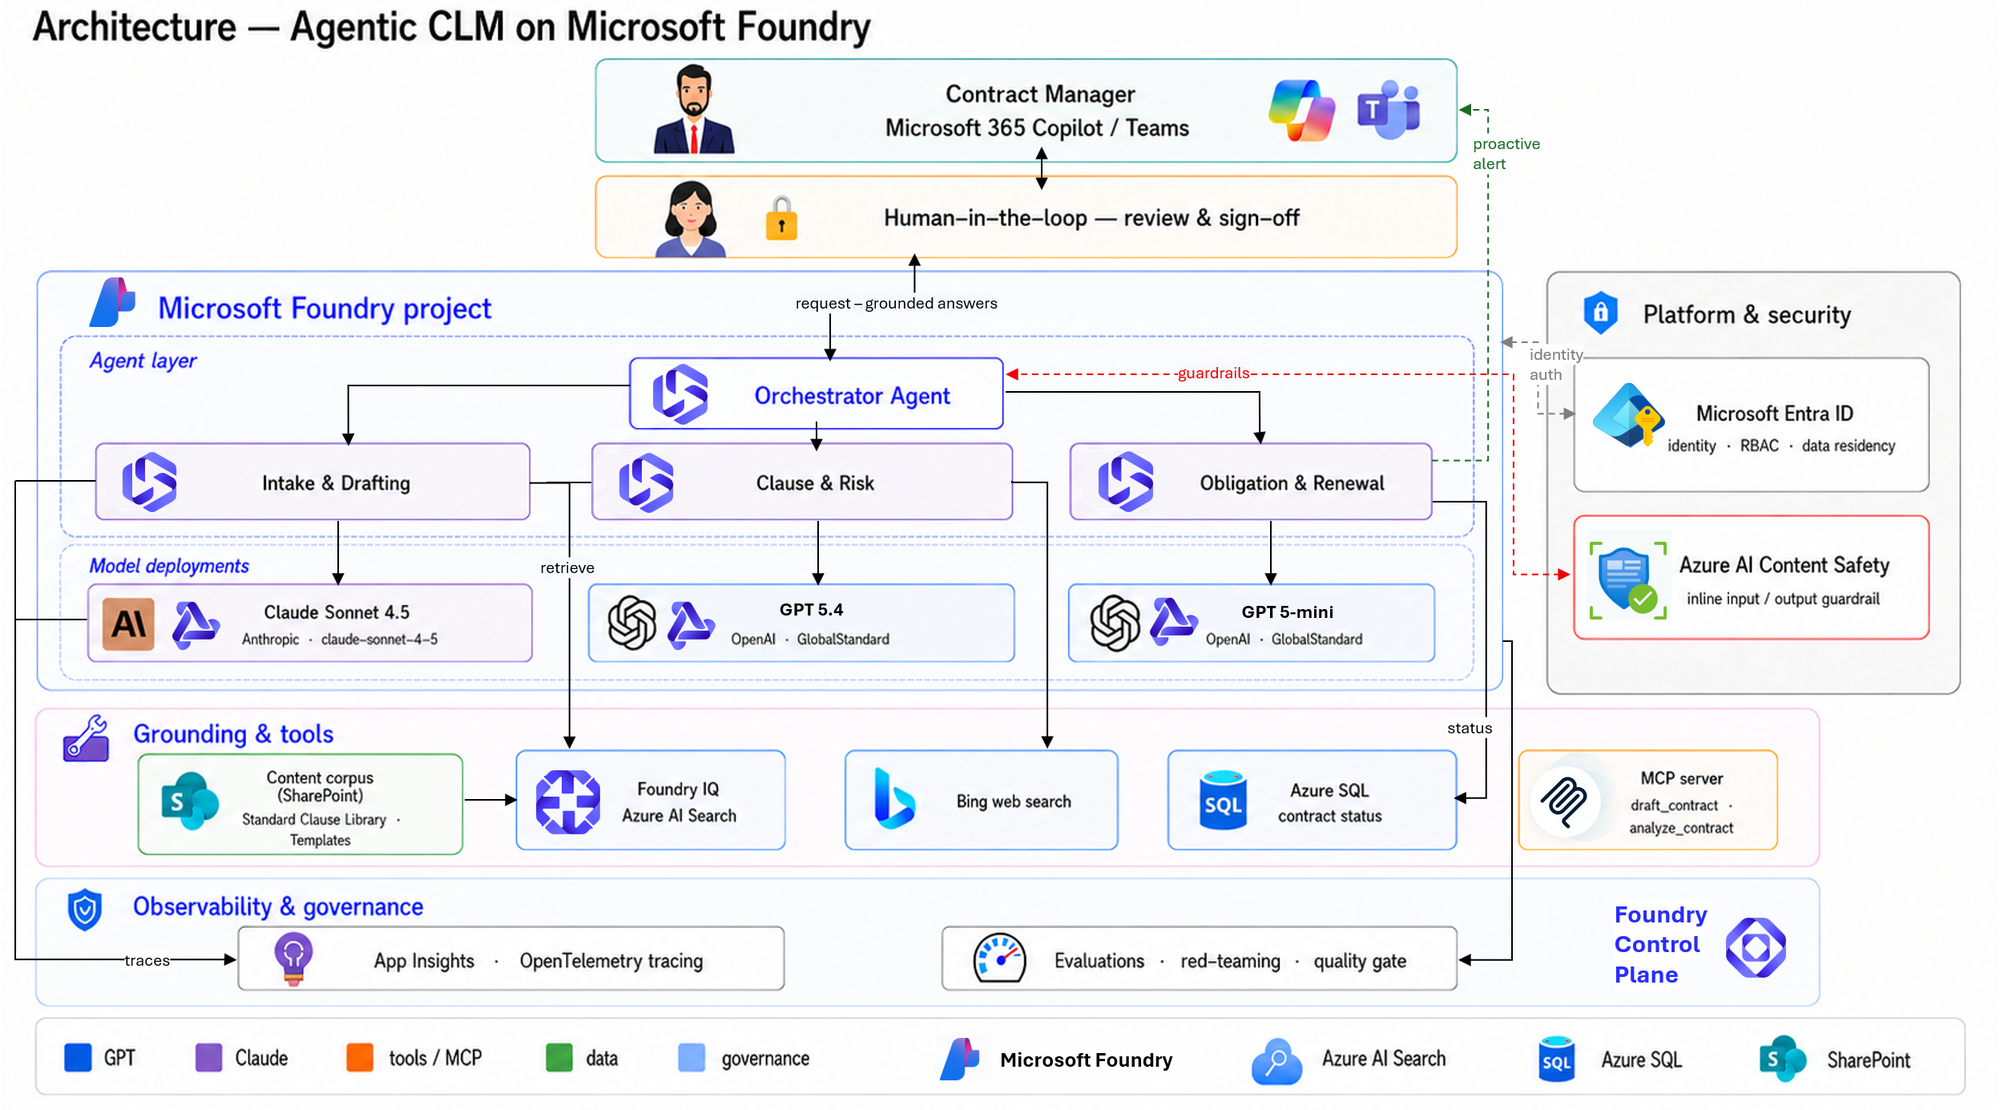
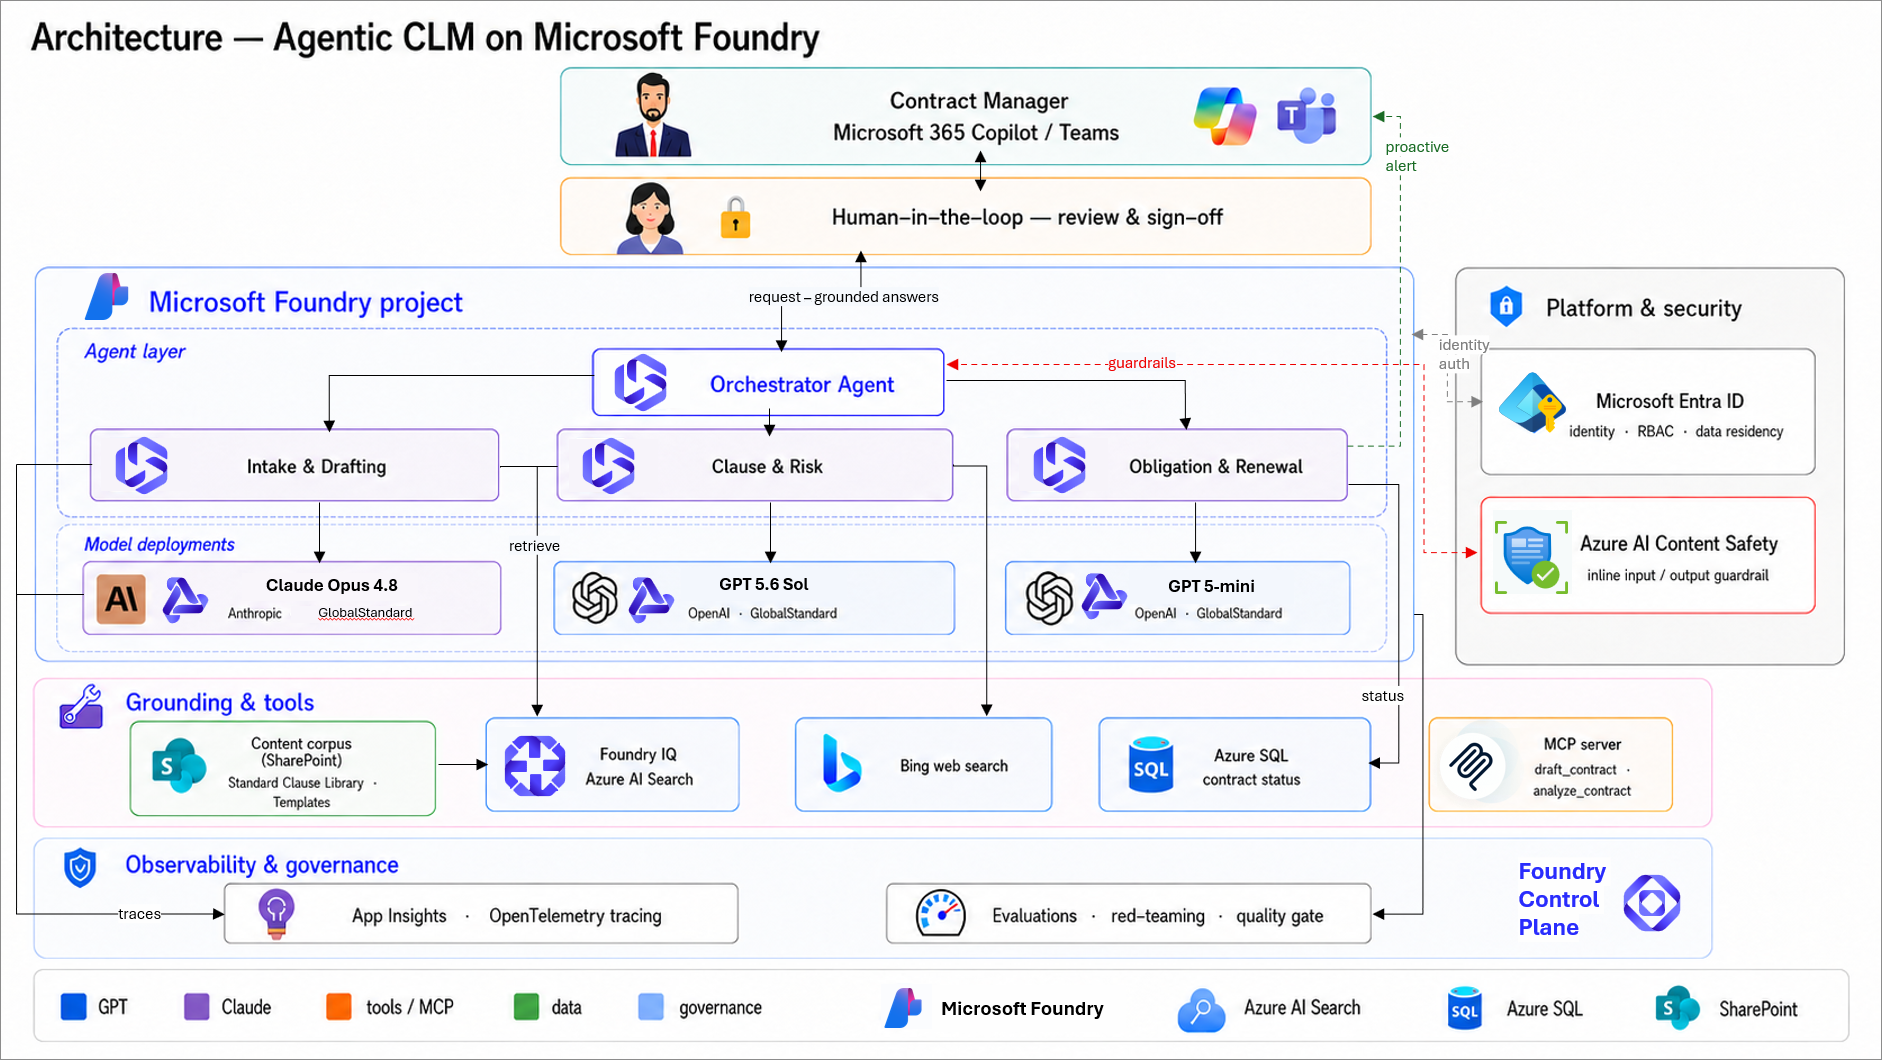
Fix gpt-5.6-sol version pin, add architecture diagram, validate clause-risk in smoke test
Corrects b41379a (Clause & Risk -> gpt-5.6-sol swap):
- Pin gpt-5.6-sol to real catalog version 2026-07-09 (was 2026-03-05,
  which is the gpt-5.4 version and would fail InvalidTemplateDeployment)
  across resources.bicep, azuredeploy.json, deploy.sh, deploy.ps1 and docs.
- Add the new architecture diagram (images/diagrams/architecture.png +
  images/architecture.png).
- smoke_test.py now pings the clause-risk (gpt-5.6-sol) deployment so a
  bad version pin is caught by Challenge 1's gate.
- Fix leftover three-model -> four-model counts in challenge-01/-02,
  coach-guide, and solution-01.

Copilot-Session: 5f4d7c88-2d2b-4832-9a84-bff404ae8e83

diff --git a/src/scripts/smoke_test.py b/src/scripts/smoke_test.py
@@ -3,8 +3,8 @@
 Verifies the environment is wired up before you start building agents:
   1. `.env` is loaded and required variables are present.
   2. The Foundry project is reachable and the Microsoft Agent Framework can build
-     and run a tiny agent on a GPT deployment AND on the Claude deployment
-     (proving the multi-model fleet).
+     and run a tiny agent on the GPT deployments (orchestrator + Clause & Risk)
+     AND on the Claude deployment (proving the multi-model fleet).
 
 Run:  python src/scripts/smoke_test.py
 """
@@ -64,6 +64,13 @@ def main() -> int:
 
     gpt_ok = ping_model(settings.model_orchestrator, "gpt")
 
+    # Clause & Risk runs on its own GPT deployment (gpt-5.6-sol) — always present,
+    # independent of the Claude gate. Skip only if it equals a model already pinged.
+    if settings.model_clause_risk and settings.model_clause_risk != settings.model_orchestrator:
+        clause_ok = ping_model(settings.model_clause_risk, "clause-risk")
+    else:
+        clause_ok = gpt_ok
+
     # When Claude was skipped at deploy time (DEPLOY_CLAUDE_MODEL=false), the
     # drafting deployment falls back to the orchestrator model, so
     # MODEL_DRAFTING == MODEL_ORCHESTRATOR. Don't ping (or require) Claude then.
@@ -78,8 +85,9 @@ def main() -> int:
     else:
         claude_ok = ping_model(settings.model_drafting, "claude")
 
-    print("\nSmoke test:", "✅ PASS" if (gpt_ok and claude_ok) else "⚠  PARTIAL (see notes above)")
-    return 0 if (gpt_ok and claude_ok) else 2
+    all_ok = gpt_ok and clause_ok and claude_ok
+    print("\nSmoke test:", "✅ PASS" if all_ok else "⚠  PARTIAL (see notes above)")
+    return 0 if all_ok else 2
 
 
 if __name__ == "__main__":

diff --git a/challenges/challenge-01.md b/challenges/challenge-01.md
@@ -45,8 +45,8 @@ All resources reside in a **single resource group** (default name `rg-clm-microh
 
 - A **Microsoft Foundry** account (Azure AI Services · S0) with a **Foundry project** (`clm-project`)
   — one identity, billing, tracing, and governance plane for the whole system.
-- Three **model deployments** — the multi-model fleet the agents run on: **`gpt-5.4`**,
-  **`gpt-5-mini`**, and **`claude-opus-4-8`** (Claude is GA in Microsoft Foundry; it can be
+- Four **model deployments** — the multi-model fleet the agents run on: **`gpt-5.4`**,
+  **`gpt-5.6-sol`**, **`gpt-5-mini`**, and **`claude-opus-4-8`** (Claude is GA in Microsoft Foundry; it can be
   skipped if your subscription lacks Anthropic quota — see Task 4).
 - **Azure AI Search** (Basic) — the backing store for the **Foundry IQ** knowledge base (`clm-corpus`
   index, `clm-search` connection).
@@ -87,7 +87,7 @@ ID RBAC (Azure AI Developer, Cognitive Services User, Search data roles) — all
 |------------|----------------|-----|-----------------|-----------|
 | `gpt-5.4` | OpenAI `gpt-5.4` (`2026-03-05`) | GlobalStandard · 30 | **Orchestrator** — routing + hand-offs | C3 |
 | `claude-opus-4-8` | Anthropic `claude-opus-4-8` (v`2`, Azure-hosted) · *optional — skip with `DEPLOY_CLAUDE_MODEL=false`* | GlobalStandard · 20 | **Intake & Drafting** | C1, C3 |
-| `gpt-5.6-sol` | OpenAI `gpt-5.6-sol` (`2026-03-05`) | GlobalStandard · 30 | **Clause & Risk** — clause comparison + risk | C4 |
+| `gpt-5.6-sol` | OpenAI `gpt-5.6-sol` (`2026-07-09`) | GlobalStandard · 30 | **Clause & Risk** — clause comparison + risk | C4 |
 | `gpt-5-mini` | OpenAI `gpt-5-mini` (`2025-08-07`) | GlobalStandard · 30 | **Obligation & Renewal** — cheap, high-frequency | C3 |
 
 > Specialists run on **Claude** and **GPT** while orchestration runs on **GPT** — all inside **one** Foundry
@@ -227,8 +227,8 @@ az account set --subscription "<your-subscription-id>"
 > Depending on the setup for your event, the Azure resources may already be provisioned for you — in
 > which case you can **skip to Task 6**. Check with your coach what applies.
 
-Choose a region that offers **all three** models. This repo's infra is pre-pinned to models that are
-available in **`swedencentral`** today (`gpt-5.4`, `gpt-5-mini`, `claude-opus-4-8`), so
+Choose a region that offers **all four** models. This repo's infra is pre-pinned to models that are
+available in **`swedencentral`** today (`gpt-5.4`, `gpt-5.6-sol`, `gpt-5-mini`, `claude-opus-4-8`), so
 **`swedencentral` is the safe default** — use it unless your coach says otherwise. Then pick **one** option:
 
 > [!TIP]
@@ -244,7 +244,7 @@ available in **`swedencentral`** today (`gpt-5.4`, `gpt-5-mini`, `claude-opus-4-
 > grep -nE "gptOrchestratorVersion|gptMiniModel|gptMiniVersion|gpt56solVersion|claude-opus-4-8" labautomation/infra/resources.bicep
 > ```
 > ✅ You should see **all four** pins: orchestrator `gpt-5.4` `2026-03-05`, renewal `gpt-5-mini`
-> `2025-08-07`, clause-risk `gpt-5.6-sol` `2026-03-05`, and Claude `claude-opus-4-8` `2`.
+> `2025-08-07`, clause-risk `gpt-5.6-sol` `2026-07-09`, and Claude `claude-opus-4-8` `2`.
 > ❌ If you instead see `gpt-5.3-chat`, `2026-03-03`, `2025-11-01`, or `gpt-4o-mini` `2024-07-18`, your fork/checkout
 > is **stale** — go back and **[sync your fork](#task-1--fork-the-repository)** + `git pull`, then re-run
 > this check. Deploying a stale template is what triggers `DeploymentModelNotSupported` /
@@ -409,10 +409,10 @@ Application Insights, Log Analytics, and the model deployments live inside the F
 
 **5b — Model deployments in the Foundry portal.** Open [ai.azure.com](https://ai.azure.com) → select
 your **`clm-project`** → **Models + endpoints**. Confirm the deployments show **Succeeded**:
-`gpt-5.4`, `gpt-5-mini`, and `claude-opus-4-8` (**two** instead of three if you set
+`gpt-5.4`, `gpt-5.6-sol`, `gpt-5-mini`, and `claude-opus-4-8` (**three** instead of four if you set
 `DEPLOY_CLAUDE_MODEL=false`).
 
-> 📸 **Screenshot slot — what you'll see:** the three model deployments, all "Succeeded".
+> 📸 **Screenshot slot — what you'll see:** the four model deployments, all "Succeeded".
 >
 > <img src="../images/challenge-01/steps/08-foundry-deployments.svg" alt="Screenshot slot: model deployments" width="80%">
 
@@ -687,6 +687,7 @@ python src/scripts/smoke_test.py
 ```text
 1) Checking environment…            ✓ (all vars present)
 2) Pinging gpt deployment 'gpt-5.4'… ✓ gpt replied: OK
+2) Pinging clause-risk deployment 'gpt-5.6-sol'… ✓ clause-risk replied: OK
 2) Pinging claude deployment 'claude-opus-4-8'… ✓ claude replied: OK
 
 Smoke test: ✅ PASS
@@ -702,9 +703,9 @@ chat-client limitation, and Challenge 2 documents a fallback.
 ## ✔ Success criteria
 
 - `.env` is populated (project endpoint + connection strings).
-- `python src/scripts/smoke_test.py` prints **✅ PASS** — a tiny agent runs on `gpt-5.4` **and** on
-  `claude-opus-4-8` (or on `gpt-5.4` alone if you skipped Claude with `DEPLOY_CLAUDE_MODEL=false`).
-- In the Foundry portal you can see the project, the model deployments (3, or 2 without Claude), and the
+- `python src/scripts/smoke_test.py` prints **✅ PASS** — a tiny agent runs on `gpt-5.4`, `gpt-5.6-sol`
+  **and** `claude-opus-4-8` (Claude is skipped if you deployed with `DEPLOY_CLAUDE_MODEL=false`).
+- In the Foundry portal you can see the project, the model deployments (4, or 3 without Claude), and the
   `clm-corpus` index with documents.
 
 Expected smoke-test output:
@@ -712,6 +713,7 @@ Expected smoke-test output:
 ```
 1) Checking environment…            ✓ (all vars present)
 2) Pinging gpt deployment 'gpt-5.4'… ✓ gpt replied: OK
+2) Pinging clause-risk deployment 'gpt-5.6-sol'… ✓ clause-risk replied: OK
 2) Pinging claude deployment 'claude-opus-4-8'… ✓ claude replied: OK
 Smoke test: ✅ PASS
 ```
@@ -734,7 +736,7 @@ Smoke test: ✅ PASS
 
 | Symptom | Fix |
 |---------|-----|
-| `DeploymentModelNotSupported` / `deployment failed` for a model | **First: are you on a stale fork?** Run the [preflight grep](#task-4--deploy-the-resources) — it must show `gpt-5.4`+`2026-03-05`, `gpt-5-mini`+`2025-08-07`, and `claude-opus-4-8`+`2`. If you see `gpt-5.3-chat`, `2026-03-03`, `2025-11-01`, or `gpt-4o-mini`, [sync your fork](#task-1--fork-the-repository) and `git pull`, then redeploy. **Otherwise** the model **name or version** isn't offered in your region: list what *is* available with `az cognitiveservices model list --location <region> --output table`, then update the model/version in [`infra/resources.bicep`](../labautomation/infra/resources.bicep) (and `labautomation/deploy.sh`). This repo is pre-pinned for `swedencentral`; if you changed regions, switch back or re-pin. |
+| `DeploymentModelNotSupported` / `deployment failed` for a model | **First: are you on a stale fork?** Run the [preflight grep](#task-4--deploy-the-resources) — it must show `gpt-5.4`+`2026-03-05`, `gpt-5.6-sol`+`2026-07-09`, `gpt-5-mini`+`2025-08-07`, and `claude-opus-4-8`+`2`. If you see `gpt-5.3-chat`, `2026-03-03`, `2025-11-01`, or `gpt-4o-mini`, [sync your fork](#task-1--fork-the-repository) and `git pull`, then redeploy. **Otherwise** the model **name or version** isn't offered in your region: list what *is* available with `az cognitiveservices model list --location <region> --output table`, then update the model/version in [`infra/resources.bicep`](../labautomation/infra/resources.bicep) (and `labautomation/deploy.sh`). This repo is pre-pinned for `swedencentral`; if you changed regions, switch back or re-pin. |
 | `ServiceModelDeprecating` for `gpt-4o-mini` (or another model) | You're on a **stale template** pinning a deprecating model. The repo now uses `gpt-5-mini` `2025-08-07` for the renewal agent — sync your fork + `git pull`. If you deliberately changed a version, pick a current one from `az cognitiveservices model list --location <region> --output table` (avoid ones with a near/past `deprecation.inference` date). |
 | Claude: `InvalidModelProviderData` (marketplace `industry`/`organizationName`/`countryCode`) | **This should no longer occur** — the template now sends the `modelProviderData` attestation on every Claude deployment (defaults `Contoso`/`US`/`technology`, override with `azd env set CLAUDE_ORGANIZATION_NAME …`). If it still fails, your subscription likely isn't **entitled** to the Anthropic offer at all — **skip Claude**: `azd env set DEPLOY_CLAUDE_MODEL false` and redeploy. |
 | Claude: **zero quota** in every region | Anthropic deployment needs Claude **quota** in the region. If you can't get it, **skip Claude**: `azd env set DEPLOY_CLAUDE_MODEL false` (or `DEPLOY_CLAUDE=false` for the deploy scripts) and redeploy — the drafting agent falls back to the `gpt-5.4` orchestrator (Clause & Risk stays on `gpt-5.6-sol`) and the smoke test still passes. |

diff --git a/docs/coach-guide.md b/docs/coach-guide.md
@@ -34,7 +34,7 @@ tips. Participants never see this file; it's for the people running the room.
 ### Pre-flight checklist (per team, morning of)
 
 - [ ] Team has an **Azure subscription** with Owner/Contributor + rights to create role assignments.
-- [ ] Region confirmed to offer all three models.
+- [ ] Region confirmed to offer all four models.
 - [ ] They can **fork** the repo and **open a Codespace** (or have the devcontainer locally).
 - [ ] `Microsoft.BotService` provider registered (needed in Ch5): `az provider register --namespace Microsoft.BotService`.
 
@@ -64,8 +64,8 @@ of the challenge, what "done" looks like, where teams get stuck, and the hint to
 ### Challenge 1 · Setup & Foundry Foundations *(30 min · setup)*
 
 - **Point:** stand up the whole Foundry environment + seed the corpus with **zero local install**.
-- **Done when:** `python src/scripts/smoke_test.py` prints `✅ PASS` (a tiny agent runs on **both**
-  `gpt-5.4` **and** `claude-opus-4-8`) and the `clm-corpus` index shows documents in the portal.
+- **Done when:** `python src/scripts/smoke_test.py` prints `✅ PASS` (a tiny agent runs on
+  `gpt-5.4`, `gpt-5.6-sol` **and** `claude-opus-4-8`) and the `clm-corpus` index shows documents in the portal.
 - **Coach prep (before the event):** essentially **none** for the corpus. Each participant is an
   **admin of their own sandbox tenant**, so Task 6 has them run a single script —
   **`python src/scripts/setup_sharepoint_corpus.py`** — that does the *entire* SharePoint path inside
@@ -98,7 +98,7 @@ of the challenge, what "done" looks like, where teams get stuck, and the hint to
   - *RBAC not propagated* → role assignments can take a few minutes; a retry usually fixes "auth" errors
     right after `azd up`.
 - **Coach hint if stuck on region:** "Open the Foundry model catalog filtered to *your* subscription and
-  pick a region that lists all three — don't trust a blog's default."
+  pick a region that lists all four — don't trust a blog's default."
 
 ### Challenge 2 · Grounded Agent with Foundry IQ + Tools *(60 min · grounding · tools · guardrails)*
 

diff --git a/walkthrough/challenge-01/solution-01.md b/walkthrough/challenge-01/solution-01.md
@@ -22,7 +22,7 @@ contract corpus the later challenges ground on.
   [`src/scripts/seed_corpus.py`](../../src/scripts/seed_corpus.py) over the local PDFs in
   [`src/data/`](../../src/data/).
 - **Done when** [`src/scripts/smoke_test.py`](../../src/scripts/smoke_test.py)
-  prints `✅ PASS` — a tiny agent runs on **both** the GPT and Claude deployments.
+  prints `✅ PASS` — a tiny agent runs on the GPT and Claude deployments.
 
 ## 🛠 Task-by-task walkthrough
 
@@ -73,7 +73,7 @@ get = lambda k: env.get(k) or DEFAULTS.get(k, "")
 > <img src="../../images/challenge-01/steps/06-azd-up-success.svg" alt="Screenshot slot: azd up success" width="80%">
 
 ### Task 5 · Verify your resources
-In the Foundry portal confirm the project, the **3 model deployments** (2 without Claude), and the `clm-corpus` Search index. From the CLI:
+In the Foundry portal confirm the project, the **4 model deployments** (3 without Claude), and the `clm-corpus` Search index. From the CLI:
 ```bash
 az cognitiveservices account deployment list -g <rg> -n clmfoundry<token> -o table
 ```
@@ -120,6 +120,7 @@ python src/scripts/smoke_test.py
 ```text
 1) Checking environment…            ✓ (all vars present)
 2) Pinging gpt deployment 'gpt-5.4'… ✓ gpt replied: OK
+2) Pinging clause-risk deployment 'gpt-5.6-sol'… ✓ clause-risk replied: OK
 2) Pinging claude deployment 'claude-opus-4-8'… ✓ claude replied: OK
 
 Smoke test: ✅ PASS

diff --git a/challenges/challenge-02.md b/challenges/challenge-02.md
@@ -140,7 +140,7 @@ each is**, the **specifics wired into this repo**, and **why it's in the archite
 your `.env` reaches it through `AZURE_AI_PROJECT_ENDPOINT`
 (`https://<account>.services.ai.azure.com/api/projects/clm-project`).
 
-- **All three models deploy onto that one account** — `gpt-5.4`, `gpt-5-mini`, `claude-opus-4-8` — so a
+- **All four models deploy onto that one account** — `gpt-5.4`, `gpt-5.6-sol`, `gpt-5-mini`, `claude-opus-4-8` — so a
   single `get_project_client()` ([`src/clm_common/foundry.py`](../src/clm_common/foundry.py)) reaches each.
 - The **Microsoft Agent Framework** (`Agent(client=FoundryChatClient(...))`) runs the agent loop **in your
   process** — planning, tool-calls and retrieval — calling Foundry for model inference.
